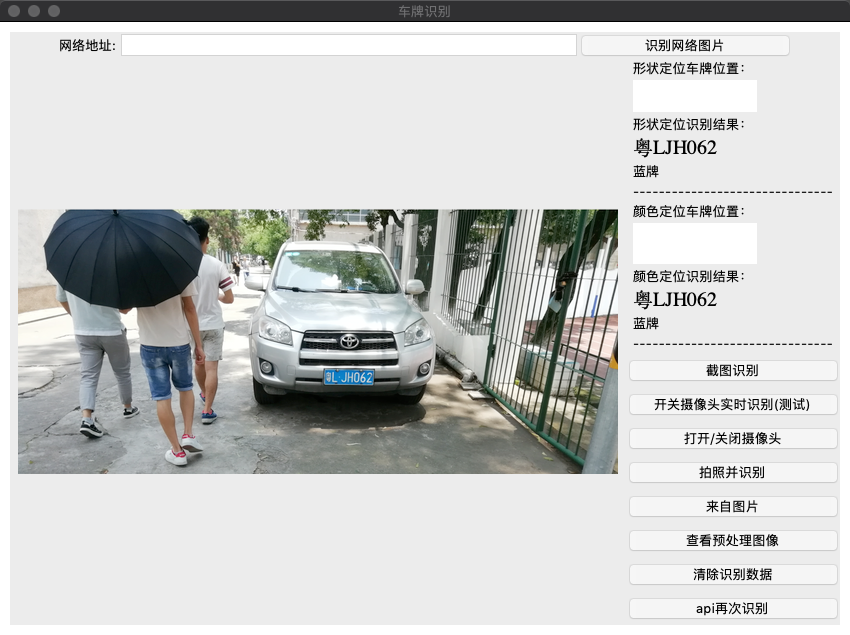
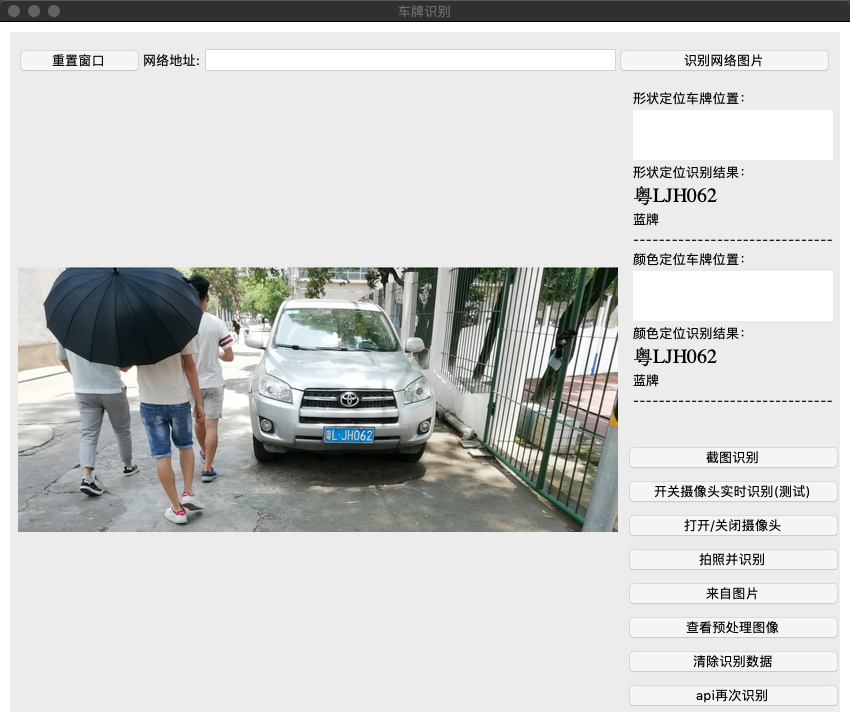
update readme

Changed region(s): [[0.0, 0.1795, 0.9788, 0.9874], [0.0, 0.0, 1.0, 0.1496]]

diff --git a/main.py b/main.py
@@ -340,13 +340,17 @@ class Surface(ttk.Frame):
 
     def url_pic(self):
         IMAGE_URL = self.getuser()
+        URL_len = len(IMAGE_URL)
         if (IMAGE_URL == ""):
             tkinter.messagebox.showinfo('提示', '请输入网址！')
+            return
+        if (URL_len > 150):
+            tkinter.messagebox.showinfo('提示', '网址过长！')
             return
         r = requests.get(IMAGE_URL)
         with open("tmp/url.png", 'wb') as f:
             f.write(r.content)
-        #print(IMAGE_URL)
+        # print(IMAGE_URL)
         self.thread_run = False
         self.cameraflag=0
         self.pic_path = "tmp/url.png"

diff --git a/README.md b/README.md
@@ -3,6 +3,7 @@
 ### 文件图片识别车牌
 ### 网络图片地址识别车牌
 ### 实时截图识别车牌
+### 图片自适应窗口大小
 ### 摄像头拍照识别车牌
 ### 摄像头实时识别车牌(测试)
 毕业设计基于Opencv的车牌识别系统 \
